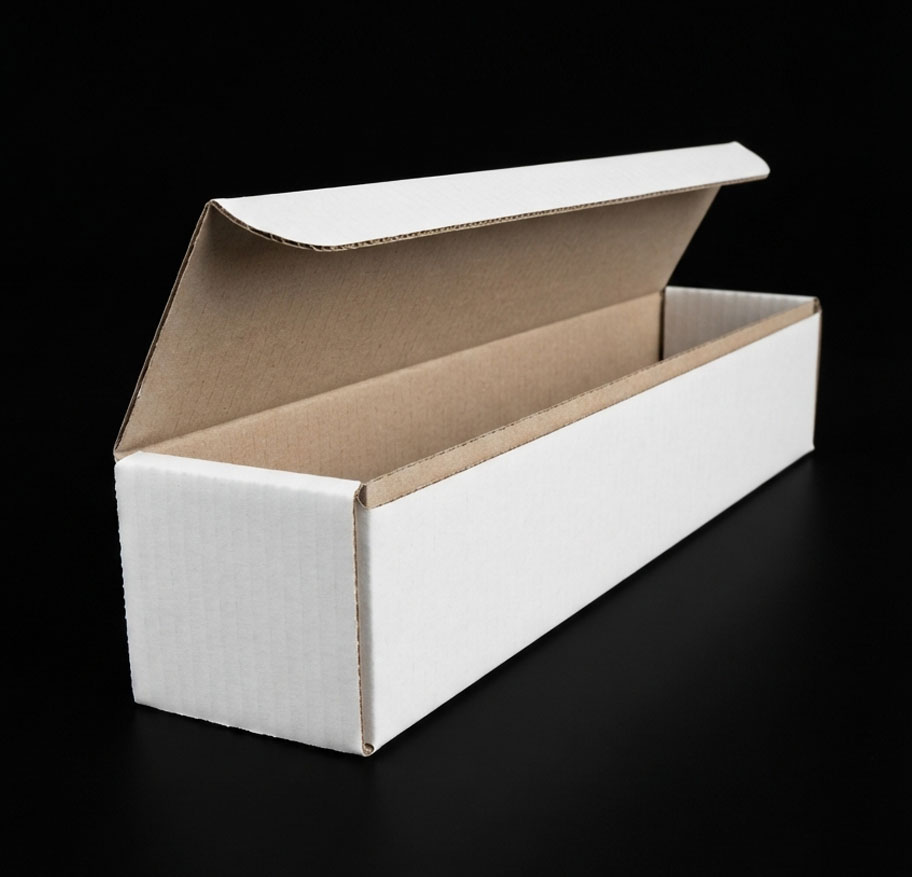
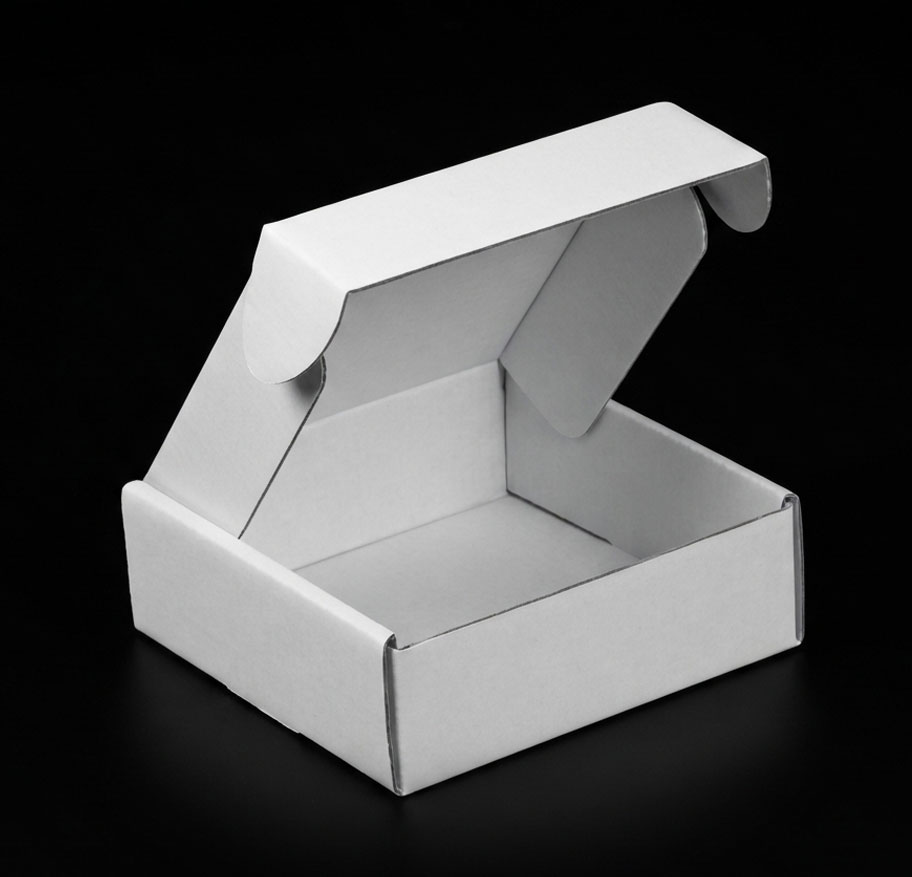
fix(site): new mailer box render, rename Cigarette box and Frame Vue Tray, gallery CTA as accent button

diff --git a/site/src/content/box-styles.ts b/site/src/content/box-styles.ts
@@ -17,7 +17,7 @@ export const boxStyles: BoxStyle[] = [
   { id: "paper-bag", name: "Paper bag", src: paperBag, alt: "White paper carrier bag with rope handles" },
   { id: "tissue", name: "Tissue box", src: tissue, alt: "White tissue box with a sheet drawn from the oval opening" },
   { id: "gable", name: "Gable box", src: gable, alt: "White gable-top box with a carry handle" },
-  { id: "tuck-end", name: "Tuck-end carton", src: tuckEnd, alt: "White tuck-end carton with the top flap open" },
+  { id: "cigarette", name: "Cigarette box", src: tuckEnd, alt: "White flip-top cigarette-style box with the lid open" },
   { id: "sandwich-wedge", name: "Sandwich wedge", src: sandwichWedge, alt: "White triangular sandwich wedge with a clear window" },
-  { id: "tray", name: "Tray", src: tray, alt: "White open tray with folded corners" },
+  { id: "frame-vue-tray", name: "Frame Vue Tray", src: tray, alt: "White open frame-vue tray with folded corners" },
 ];

diff --git a/site/src/components/home/Gallery.tsx b/site/src/components/home/Gallery.tsx
@@ -51,7 +51,7 @@ export function Gallery() {
         </ul>
 
         <Reveal className="mt-14">
-          <Button href="/gallery" variant="link">
+          <Button href="/gallery" variant="solid" className="px-9 py-5 text-[0.8125rem] font-bold">
             See the full gallery
           </Button>
         </Reveal>
